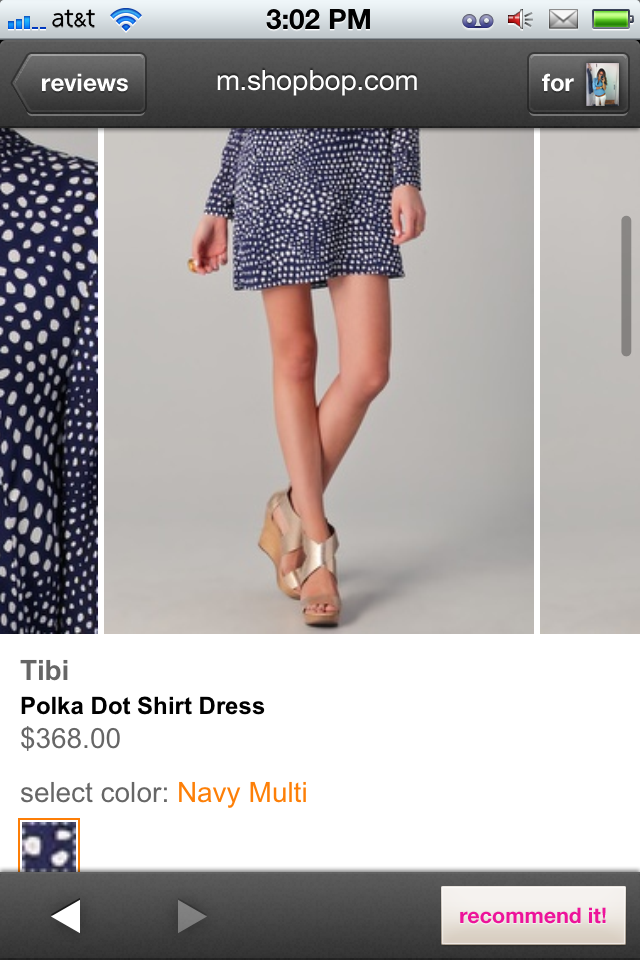
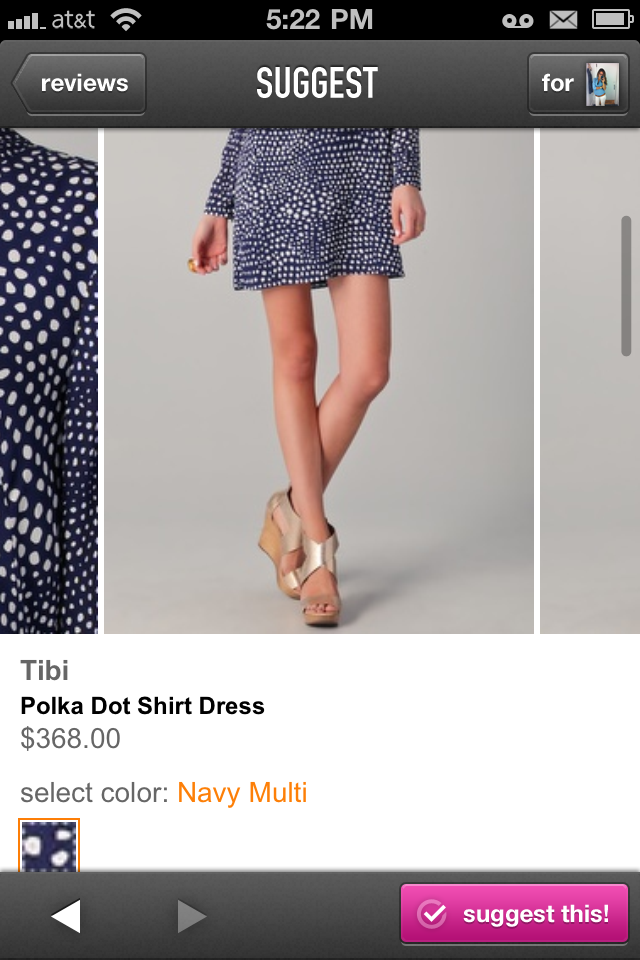
Updates with new mockups and questions answered

Changed region(s): [[0.0, 0.0, 1.0, 0.125], [0.625, 0.9062, 1.0, 1.0]]

diff --git a/Docs/FunctionalSpec.md b/Docs/FunctionalSpec.md
@@ -11,22 +11,11 @@
 	This doc is in reference to the changes for the GTIO 3.4 release only.  All other functional questions should reference prior specs delivered from GTIO to TwoToasters or should be asked of Simon Holroyd (simon@gotryiton.com) or Matt Varghese (matt@gotryiton.com)
 
 1. What happens if the "suggest this" button is hit (Section 2.1, view 2.1.b) before the API request to /rest/v4/scrape has returned a productId
-	- options:
-		- disable the button until the API has responded (maybe show a spinner?)
-		- allow the user to move to Section 3.2 anyway
-			- let the API request finish asynchronously
-			- populate the recommendation preview once the API has responded
-			- prevent the user from submitting a review until the request has finished
-	- **NOTE:** This question is answered but is pending design and technical direction to be added to the document
+	- **NOTE:** This question is answered in story "The user taps on "suggest this" in the bottom nav"
 
 2. How easy is it to customize the nav bars in view 2.1.b based on the response of the /rest/v4/scrape response?  We'd ideally like to be able to have that response:
-	- make the 'suggest this' button active or inactive
-	- show a thumbnail in the bottom nav area (Product->thumbnail)
-	- show a product name (Product->productName)
-	- customize the top nav bar title area (view 2.1.b has 'm.shopbop.com' as the title, we'd like this to be the Product->brand field if possible)
-		- the title in the top nav might need to be static if this is not feasible
-		- if not feasible, use 'suggest' as the title throughout
-	- **NOTE:** This question is answered but is pending design and technical direction to be added to the document
+	- **NOTE**  This question has been answered in story "The user browses to a mobile web page and sees the brand name in the top nav bar"
+	- **NOTE**  We will not be changing the bottom nav bar based on the /rest/v4/scrape response (at least for this round of development)
 
 3.  When a user leaves the reviews page with a recommendation selected (hits 'cancel' in view 3.2.e), what happens to the recommendation?  
 	- **NOTE:** this question has been answered.  See Story "The user should be presented with a confirmation dialog"
@@ -91,9 +80,18 @@ The iOS app should spawn a webview with custom top nav bar and hidden bottom nav
 
 <img src="https://github.com/twotoasters/GTIOv3/raw/master/Docs/Mockups/picker-4-manual-on.png" width="240px">
 
+**2.1.c** webview picker, manually browsing after API response:
+
+<img src="https://github.com/twotoasters/GTIOv3/raw/master/Docs/Mockups/picker-4-manual-on-shopbop.png" width="240px">
+
+**2.1.d** webview picker, suggest tapped before API response:
+
+<img src="https://github.com/twotoasters/GTIOv3/raw/master/Docs/Mockups/picker-4-loading.png" width="240px">
+
 #### API Usage
 
 - BROWSING: On each change in webview url the native iOS api should make an API request
+	- **NOTE** this api is not currently functional on dev/staging/production branches of the GTIO api.  ETA: Thursday end of day
 	- The request endpoint is: /rest/v4/scrape
 	- The api request should include the parameters:
 		- gtioToken
@@ -168,6 +166,12 @@ product{
 	- If the user drags internal scrollable elements, they should scroll within the selected html div (if a user drags the 'shopbop' logo left and right, the row should scroll left and right)
 	- If the user turns their phone, the webview picker and native page should stay in portrait mode
 - The user taps on "suggest this" in the bottom nav, they should be taken to the reviews page (view 3.2.a/f/g/h)
+	- If the /rest/v4/scrape api has not yet responded, the user should see view 2.1.d until the api returns a response
+		- During this view no buttons are tappable
+- The user browses to a mobile web page and sees the brand name in the top nav bar
+	- After the /rest/v4/scrape api has responded, update the title with Product->brand
+	- Until the API has responded, leave whatever previous title was in the bar ('SUGGEST' in most cases)
+	- See view 2.1.c, note 'SHOPBOB' is now the title
 
 ### 3.1 Reviews page
 
@@ -384,6 +388,7 @@ reviews {
 	- The dialog should allow the user to either 'cancel' or 'yes'
 		- 'yes' should submit the recommendation without any review text included
 		- 'cancel' should bring the user to the front of the outfit page without submitting anything
-	- If the user cancels, the unsubmitted recommendation should stay in memory until the outfit is loaded again (either from a list or outfit refresh)
-	- If the user cancels, then (at any point later in their browsing of the app) taps on suggest from view 1.1.b, the unsubmitted review is erased and the user proceeds into the Webview Picker (view 2.1.a)
-
+	- If the user cancels, the unsubmitted recommendation should be cleared from memory (**NOTE** changed @5pm 2.1.12)
+- The user taps on the preview product they should be taken back to their last browsing position in the webview (view 2.1.b)
+	- Their browsing history should remain intact
+	- same tappable area as in story "The user should see standard reviews as well as reviews that include product suggestions")
